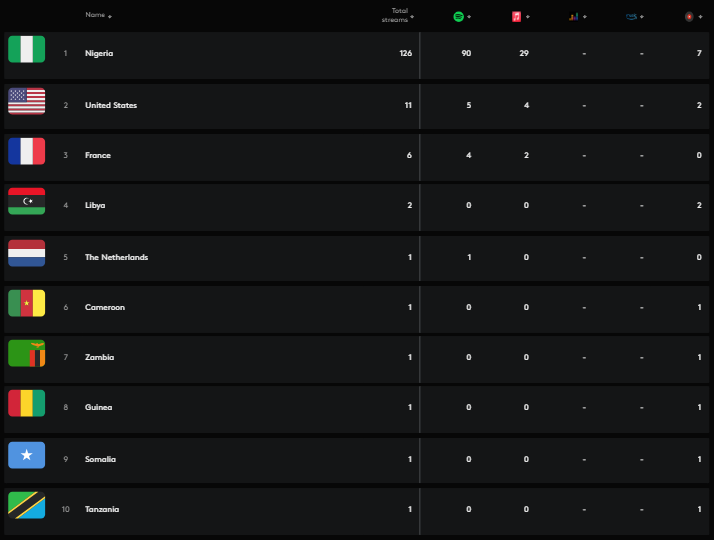
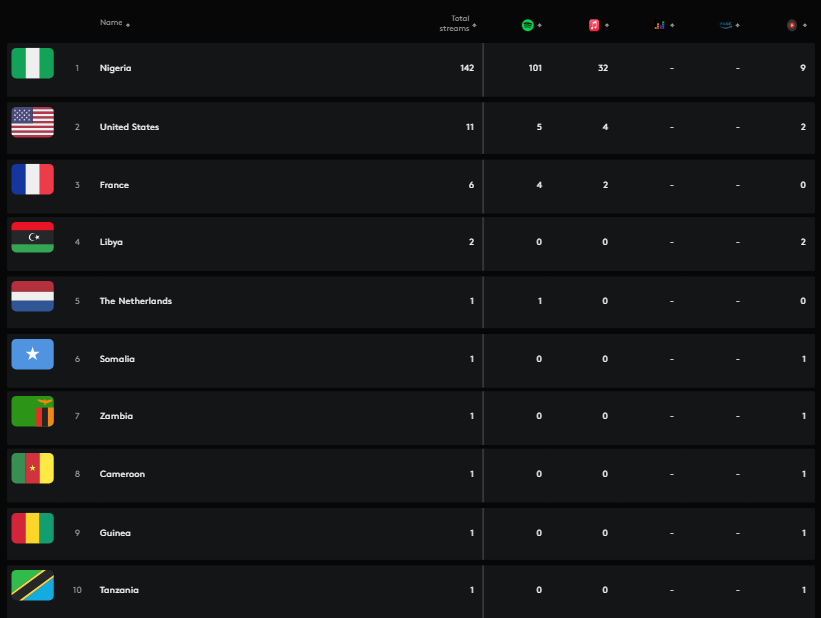
mind

diff --git a/Daniel_Bemjamin.html b/Daniel_Bemjamin.html
@@ -48,7 +48,7 @@
                     <div class="Update">
                         <h5>All Time Streams<img src="Danimg/1.png"></h5>
                        <H5>Charts<img src="Danimg/2.png"></H5>
-                       <h5>Top Country<img src="Danimg/3.png"></h5>
+                       <h5>Top Country<img src="Danimg/3.png"> <img src="Danimg/3b.png"> <img src="Danimg/3c.png"></h5>
                        <h5>Tracks<img src="Danimg/4.png"></h5>
                     </div>
                 </li>

diff --git a/Naxty.html b/Naxty.html
@@ -39,7 +39,7 @@
                     <div class="Update">
                         <h5>All Time Streams<img src="Naximg/1.png"></h5>
                        <H5>Charts<img src="Naximg/2.png"></H5>
-                       <h5>Top Country<img src="Naximg/3.png"></h5>
+                       <h5>Top Country<img src="Naximg/3.png"> <img src="Naximg/3b.png"> <img src="Naximg/3c.png"></h5>
                        <h5>Tracks<img src="Naximg/4.png"></h5>
                     </div>
                 </li>

diff --git a/Exception_Tife_praise.html b/Exception_Tife_praise.html
@@ -37,7 +37,7 @@
                     <div class="Update">
                         <h5>All Time Streams<img src="tifimg/1.png"></h5>
                        <H5>Charts<img src="tifimg/2.png"></H5>
-                       <h5>Top Country<img src="tifimg/3.png"></h5>
+                       <h5>Top Country<img src="tifimg/3.png"> <img src="tifimg/3b.png"></h5>
                        <h5>Tracks<img src="tifimg/4.png"></h5>
                     </div>
                 </li>
